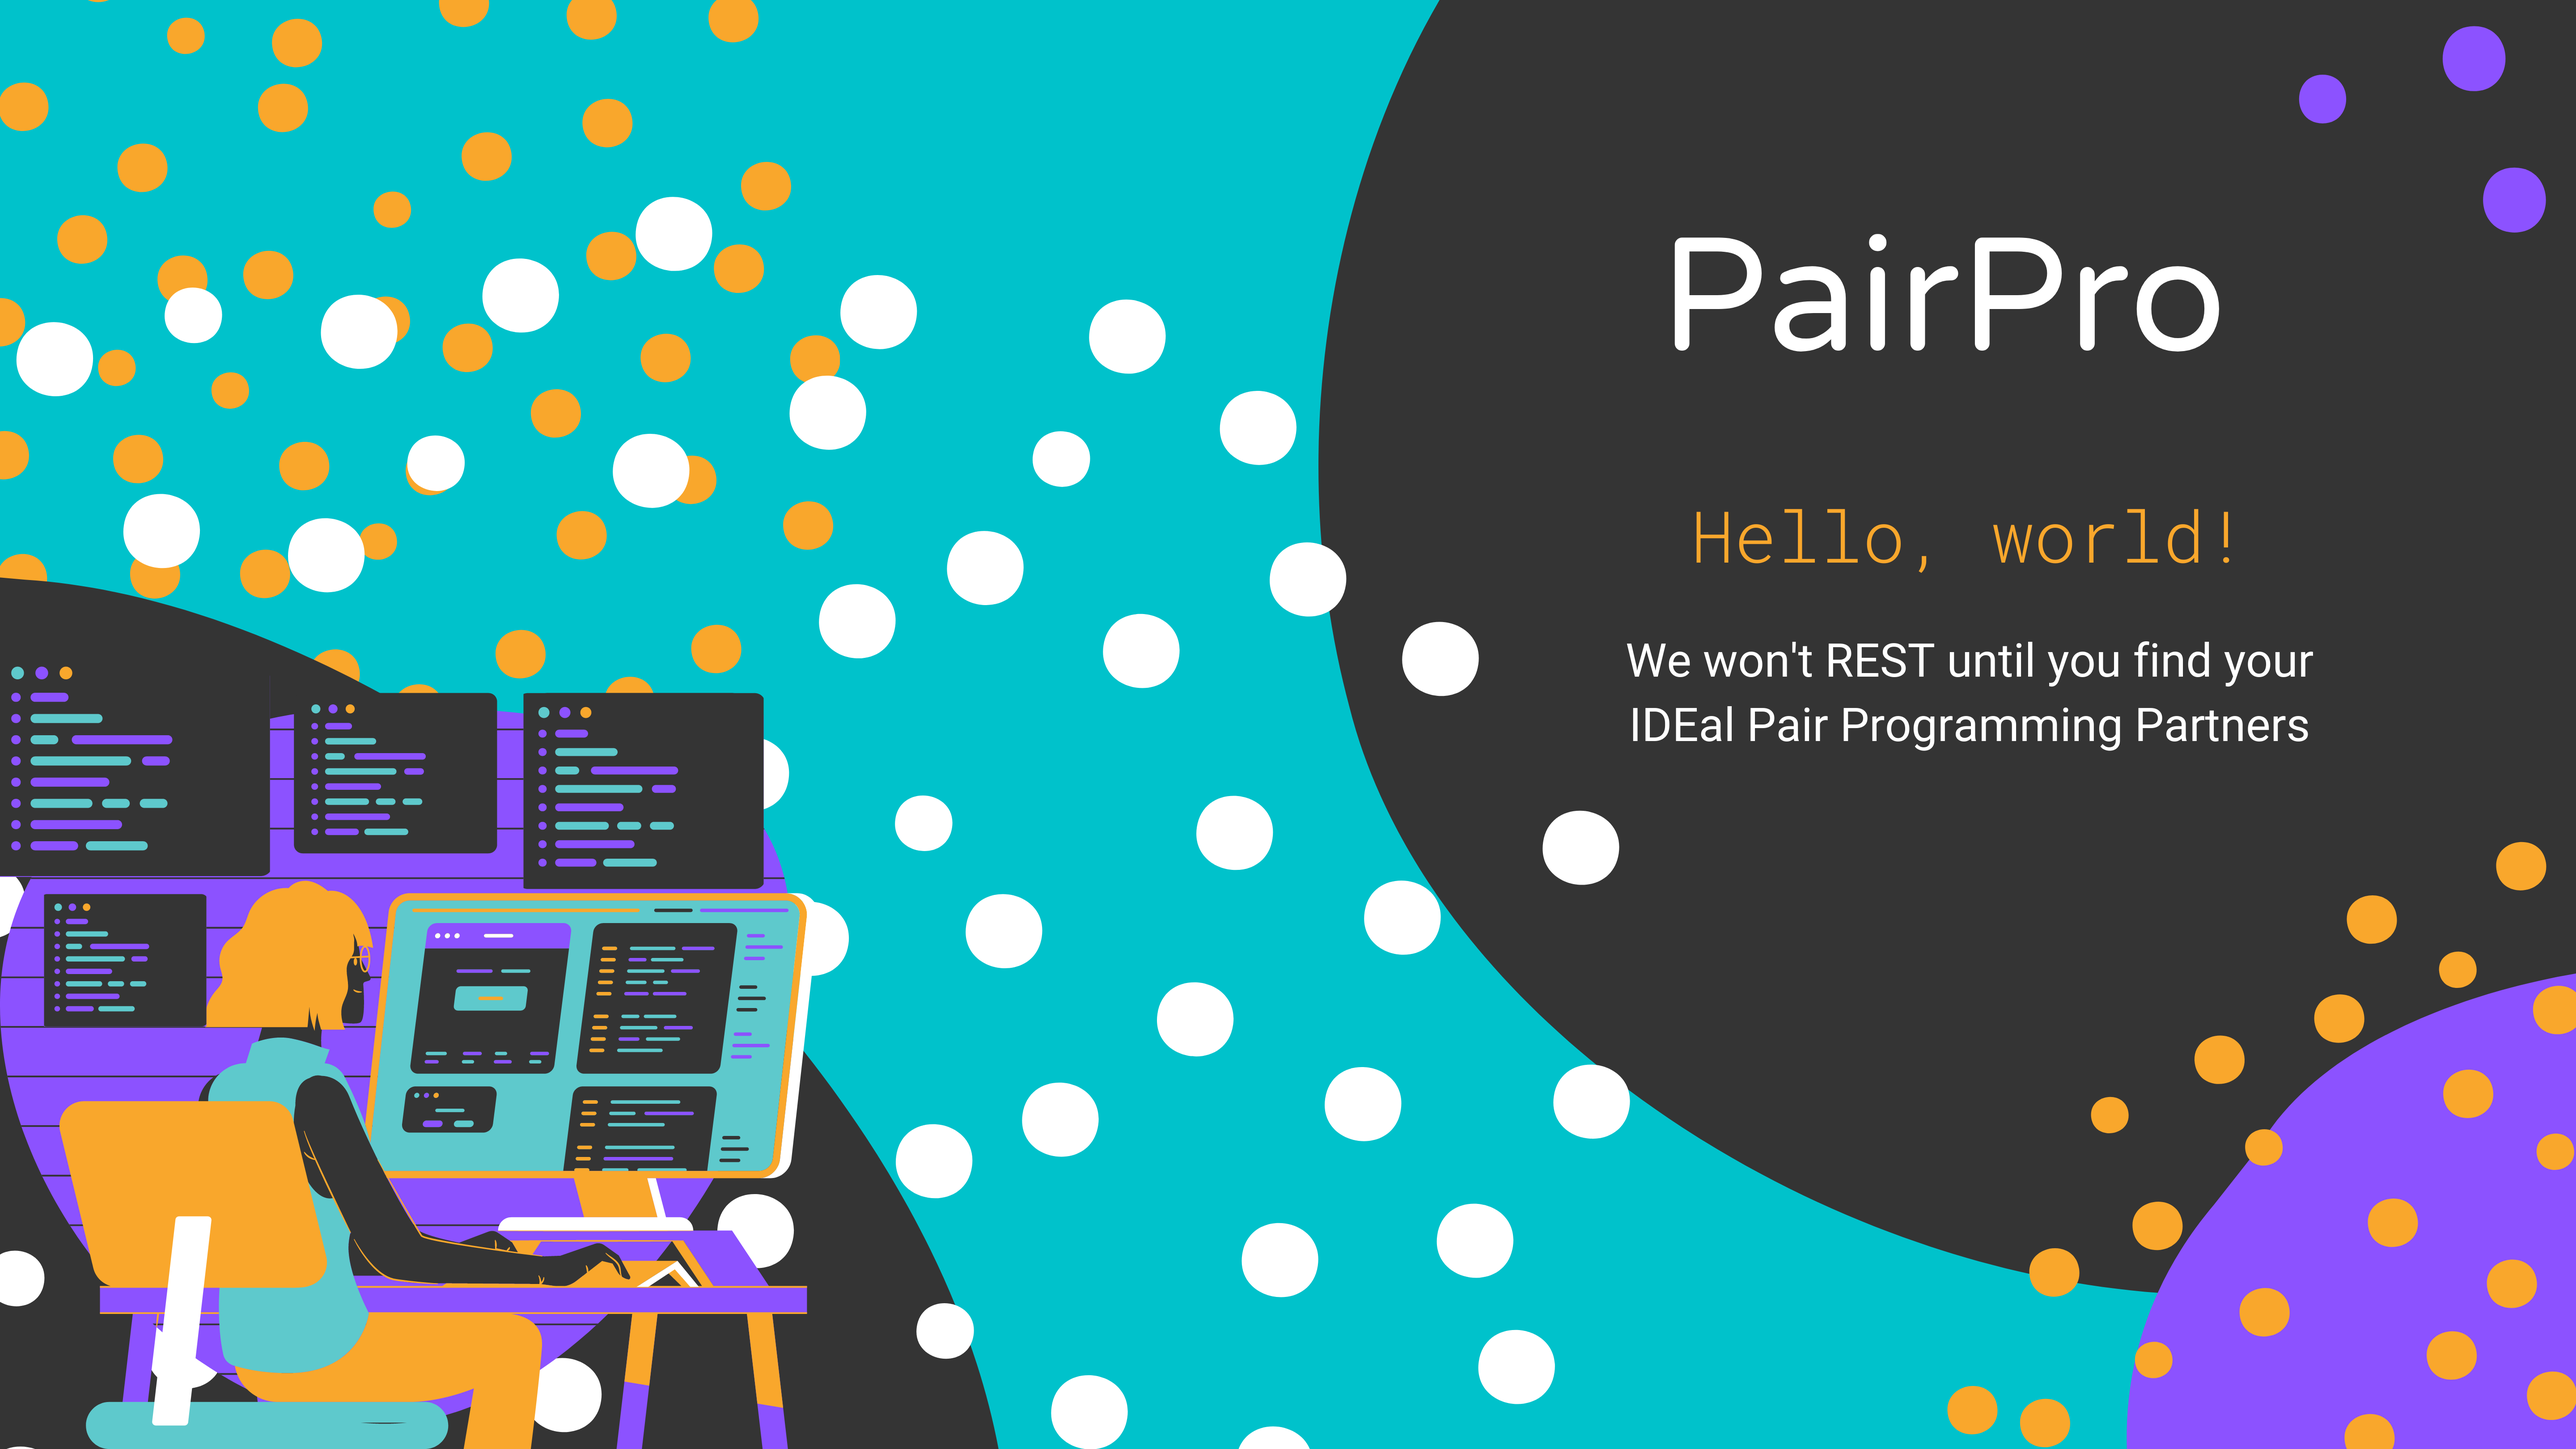
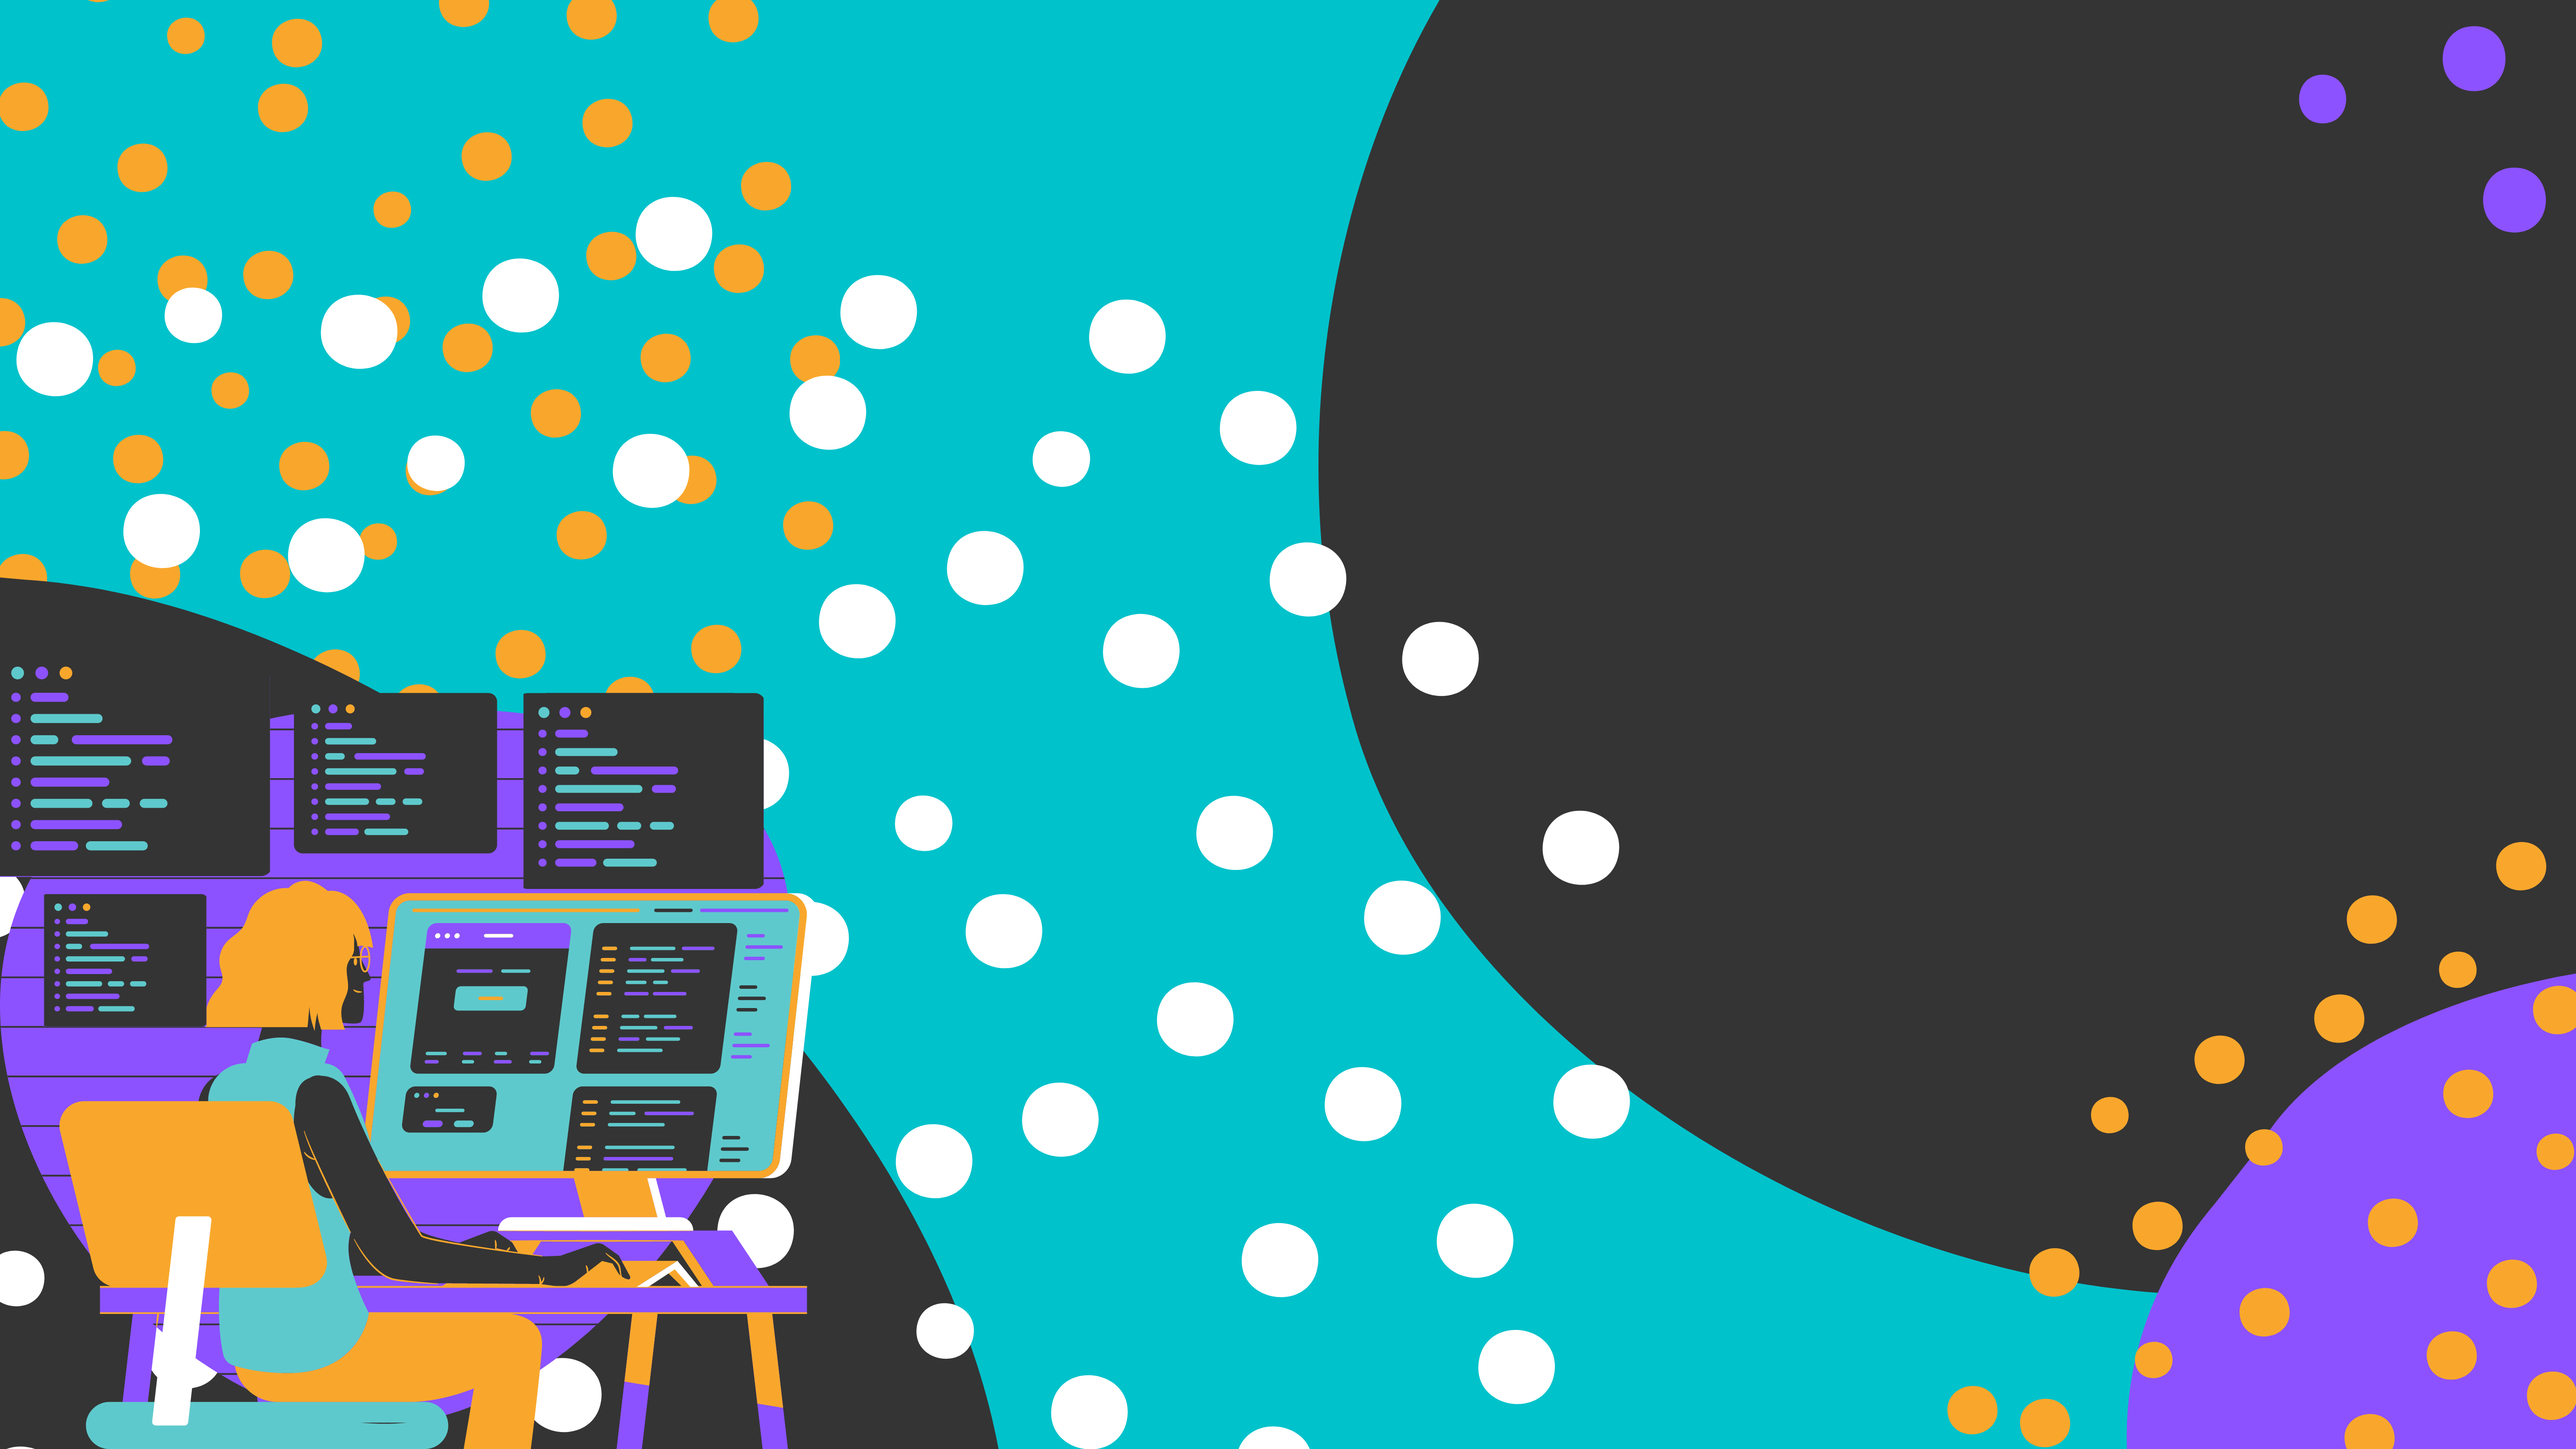
Add styling and cards to HomePage

diff --git a/client/src/components/HomeCards.jsx b/client/src/components/HomeCards.jsx
@@ -1,0 +1,48 @@
+import { Card, Button, Row, Col, Container } from "react-bootstrap";
+
+const HomeCards = () => {
+  return (
+    <div data-testid="home-cards" className="card-container">
+    <Container fluid >
+      <Row xs={1} lg={3} >
+          <Col>
+            <br></br>
+            <Card className="card">
+              <Card.Body>
+                <Card.Title>What is PairPro?</Card.Title>
+                <Card.Text>
+                  Lorem ipsum dolor sit amet, consectetur adipiscing elit. Donec mollis tellus eget volutpat dictum. Integer lobortis, erat nec placerat feugiat, arcu felis vestibulum quam, eget iaculis est nisi condimentum urna. Nulla eu vehicula ligula. Aenean et feugiat ex. Duis vel sapien a tortor euismod semper. Cras in malesuada erat. In nisl erat, pulvinar non lectus ac, viverra sagittis enim.
+                </Card.Text>
+              </Card.Body>
+            </Card>
+          </Col>
+          <Col>
+            <br></br>
+            <Card className="card">
+              <Card.Body>
+                <Card.Title>Another Informative Thing</Card.Title>
+                <Card.Text>
+                  Lorem ipsum dolor sit amet, consectetur adipiscing elit. Donec mollis tellus eget volutpat dictum. Integer lobortis, erat nec placerat feugiat, arcu felis vestibulum quam, eget iaculis est nisi condimentum urna. Nulla eu vehicula ligula. Aenean et feugiat ex. Duis vel sapien a tortor euismod semper. Cras in malesuada erat. In nisl erat, pulvinar non lectus ac, viverra sagittis enim.
+                </Card.Text>
+              </Card.Body>
+            </Card>
+          </Col>
+          <Col>
+            <br></br>
+            <Card className="card">
+              <Card.Body>
+                <Card.Title>Yet More Delicious Information</Card.Title>
+                <Card.Text>
+                  Lorem ipsum dolor sit amet, consectetur adipiscing elit. Donec mollis tellus eget volutpat dictum. Integer lobortis, erat nec placerat feugiat, arcu felis vestibulum quam, eget iaculis est nisi condimentum urna. Nulla eu vehicula ligula. Aenean et feugiat ex. Duis vel sapien a tortor euismod semper. Cras in malesuada erat. In nisl erat, pulvinar non lectus ac, viverra sagittis enim.
+                </Card.Text>
+              </Card.Body>
+            </Card>
+            <br></br>
+          </Col>
+      </Row>
+    </Container>
+    </div>
+  )
+}
+
+export default HomeCards

diff --git a/client/src/components/Header.jsx b/client/src/components/Header.jsx
@@ -1,34 +1,34 @@
-import { useState, useContext } from "react";
+import { useContext } from "react";
 import { AuthContext } from "../App";
-import { FaSignInAlt, FaSignOutAlt, FaUser } from "react-icons/fa";
-import { Link, useNavigate } from "react-router-dom";
-import { toast } from "react-toastify";
 import { Navbar, Container, Nav, Button } from 'react-bootstrap'
+import LogoutButton from "./LogoutButton";
+import { useLocation } from 'react-router-dom'
 
-function Header() {
-  const { dispatch } = useContext(AuthContext);
+const Header = () => {
   const { state } = useContext(AuthContext);
-
-  const logout = () => {
-    localStorage.removeItem("userToken");
-    dispatch({
-      type: "LOGOUT",
-    });
-  };
+  const location = useLocation();
+  const bgColor = location.pathname === '/' ? 'white' : 'dark-teal'
+  const hiddenText = location.pathname === '/' ? 'white-text' : 'dark-teal-text'
+  const logoColor = location.pathname === '/' ? 'light' : 'dark'
+  const logoLink = state.isLoggedIn ? '/pairpros' : '/'
 
   return (
- 
-      <Navbar fluid='true' className='dark-teal' variant="dark">
-        <Container>
-          <Navbar.Brand href="/">PairPro</Navbar.Brand>
-          <Nav>
-            <Button variant="success" onClick={logout}>Logout</Button>
-            <Nav.Link href="/login">Login</Nav.Link>
-            <Nav.Link href="/register">Sign Up</Nav.Link>
-          </Nav>
-        </Container>
-      </Navbar>
-
+  <Navbar fluid='true' className={bgColor} variant={logoColor}>
+    <Container>
+      <Navbar.Brand href={logoLink}>PairPro</Navbar.Brand>
+      <Nav>
+        {state.isLoggedIn ? (
+          <LogoutButton />
+          ):(
+          <>
+            <Button href="/login">Login</Button>
+            <p className={hiddenText}>....</p>
+            <Button variant='danger' href="/register">Sign Up</Button>
+          </>
+        )}
+      </Nav>
+    </Container>
+  </Navbar>
   );
 }
     

diff --git a/client/src/components/MePage.jsx b/client/src/components/MePage.jsx
@@ -1,0 +1,60 @@
+import React from 'react';
+import axios from 'axios';
+import { useState, useEffect, useContext } from 'react';
+import { useNavigate } from 'react-router-dom';
+import { AuthContext } from '../App';
+import { Card, Button, Row, Col, Container } from 'react-bootstrap'
+import robot from '../assets/robot.png'
+
+const Me = () => {
+  const [me, setMe] = useState([]);
+
+  const { state } = useContext(AuthContext)
+
+  const navigate = useNavigate()
+
+  useEffect(() => {
+    state.isLoggedIn ? (
+    axios.get(`/api/users/me`)
+      .then(res => {
+        const me = res.data;
+        setMe(me);
+      })
+      .catch(() => {
+        navigate('/login')
+      })
+      ):(
+      navigate('/login')
+    )
+  }, [navigate, state.isLoggedIn])
+
+  return (
+<div data-testid="person-cards" className="card-container">
+        <Container fluid >
+          <Row  >
+            <Col></Col>
+
+
+              <Col xs={12} sm={10} md ={8} lg={6} xl={4}>
+           <Card className="me-card">
+                  <Card.Img variant="top" src={robot} />
+                  <Card.Body>
+                    <Card.Title>{me.name}</Card.Title>
+                    <Card.Text>Languages: {me.languages}</Card.Text>
+                    <Card.Text>Bio: {me.bio}</Card.Text>
+                    <Button variant="primary">Edit your Profile</Button>
+                  </Card.Body>
+                </Card>
+                <br></br>
+              </Col>
+       
+            <Col></Col>
+          </Row>
+        </Container>
+      </div>
+   
+
+  )
+}
+
+export default Me

diff --git a/client/src/App.js b/client/src/App.js
@@ -3,11 +3,11 @@ import { BrowserRouter as Router, Routes, Route } from "react-router-dom";
 import { ToastContainer } from "react-toastify";
 import "react-toastify/dist/ReactToastify.css";
 import Header from "./components/Header";
-import Home from "./components/Home";
-import Login from "./components/Login";
-import Register from "./components/Register";
-import PersonList from "./components/PersonList";
-import Me from "./components/Me";
+import HomePage from "./components/HomePage";
+import LoginPage from "./components/LoginPage";
+import RegisterPage from "./components/RegisterPage";
+import PairProsPage from "./components/PairProsPage";
+import MePage from "./components/MePage";
 import "./index.scss";
 
 export const AuthContext = createContext();
@@ -58,11 +58,11 @@ function App() {
           <div data-testid="container">
             <Header />
             <Routes>
-              <Route path="/home" element={<Home />} />
-              <Route path="/" element={<PersonList />} />
-              <Route path="/login" element={<Login />} />
-              <Route path="/register" element={<Register />} />
-              <Route path="/me" element={<Me />} />
+              <Route path="/" element={<HomePage />} />
+              <Route path="/pairpros" element={<PairProsPage />} />
+              <Route path="/login" element={<LoginPage />} />
+              <Route path="/register" element={<RegisterPage />} />
+              <Route path="/me" element={<MePage />} />
             </Routes>
           </div>
         </Router>

diff --git a/client/src/index.scss b/client/src/index.scss
@@ -1,13 +1,66 @@
-.navbar {
-  background-color: white;
-}
-
 * {
   text-align: center;
 }
 
+.home-banner-image {
+  background-image: url(./assets/banner.png);
+  background-position-x: right;
+  background-position-y: center;
+  background-size: cover;
+  background-repeat: no-repeat;
+  height: 100vh;
+}
+
+.home-banner-text {
+  position: absolute; top: 30vh; right: 20vh; 
+  padding-left: 20vh;
+}
+
+.card {
+  width: 100%;
+  padding-left: 30px;
+  padding-right: 30px;
+}
+
+$theme-colors: (
+    "success": #00c2cb, 
+    "info": #5ec9cc,
+    "danger": #f9a72c,
+    "warning": #ffbd59,
+    "primary": #8c52ff,
+    "dark": #343434
+);
+
 .dark-teal {
-  background-color: teal;
+  background-color: #00c2cb;
+}
+
+.dark-teal-text {
+  color: #00c2cb;
+}
+
+.light-teal {
+  background-color: #5ec9cc;
+}
+
+.dark-orange-text {
+  color: #f9a72c;
+}
+
+.light-orange {
+  background-color: #ffbd59;
+}
+
+.purple-fill {
+  background-color:  #8c52ff;
+}
+
+.dark-grey {
+  background-color: #343434;
+}
+
+.white-text {
+  color: white;
 }
 
 @import "~bootstrap/scss/bootstrap.scss";

diff --git a/client/src/components/PairProsPage.jsx b/client/src/components/PairProsPage.jsx
@@ -20,19 +20,20 @@ const PersonList = () => {
         Welcome, pick all the people
       </div>
       <div data-testid="person-cards">
-        <Container>
-          <Row xs={1} md={2} lg={3} className="g-4">
+        <Container fluid >
+          <Row xs={1} sm={2} md ={3} lg={4} xl={5} >
             {persons.map((person) => (
               <Col>
-                <Card className="person-card" style={{ width: "18rem" }}>
+                <Card className="card">
                   <Card.Img variant="top" src={robot} />
                   <Card.Body>
                     <Card.Title>{person.name}</Card.Title>
                     <Card.Text>Languages: {person.languages}</Card.Text>
                     <Card.Text>Bio: {person.bio}</Card.Text>
-                    <Button variant="primary">Go somewhere</Button>
+                    <Button variant="primary">{`Chat to ${person.name}`}</Button>
                   </Card.Body>
                 </Card>
+                <br></br>
               </Col>
             ))}
           </Row>

diff --git a/client/src/components/HomePage.jsx b/client/src/components/HomePage.jsx
@@ -1,0 +1,21 @@
+import React from 'react'
+import HomeCards from './HomeCards'
+
+const Home = () => {
+  return (
+    <>
+      <div className='home-banner-image'>
+        <div className='home-banner-text'>
+          <h1 className='white-text'>PairPro</h1>
+          <br></br>
+          <h3 className='dark-orange-text'>Hello, world!</h3>
+          <h5 className='white-text'>We won't REST until you find your</h5>
+          <h5 className='white-text'>IDEal Pair Programming Partner</h5>
+        </div>
+      </div>
+      <HomeCards />
+    </>
+  )
+}
+
+export default Home

diff --git a/client/src/components/LogoutButton.jsx b/client/src/components/LogoutButton.jsx
@@ -1,0 +1,23 @@
+import { useContext } from "react";
+import { AuthContext } from "../App";
+import { Button } from "react-bootstrap";
+import { useNavigate } from "react-router-dom";
+
+const LogoutButton = () => {
+const { dispatch } = useContext(AuthContext);
+const navigate = useNavigate()
+
+const logout = () => {
+  localStorage.removeItem("userToken");
+  dispatch({
+    type: "LOGOUT",
+  });
+  navigate('/')
+};
+
+return (
+  <Button variant='primary' onClick={logout}>Logout</Button>
+)
+}
+
+export default LogoutButton

diff --git a/client/src/components/RegisterPage.jsx b/client/src/components/RegisterPage.jsx
@@ -49,7 +49,7 @@ const Register = () => {
           // payload: res.data,
           // remember: rememberMe,
         });
-        navigate("/").catch(() => {
+        navigate("/pairpros").catch(() => {
           toast("WRONG");
         });
       });
@@ -151,6 +151,5 @@ const Register = () => {
   </>
   )
 }
-
 
 export default Register;

diff --git a/client/src/components/LoginPage.jsx b/client/src/components/LoginPage.jsx
@@ -44,7 +44,7 @@ const Login = () => {
           // payload: res.data,
           // remember: rememberMe,
         });
-        navigate("/");
+        navigate("/pairpros");
       })
       .catch(() => {
         toast("Incorrect email or password");
